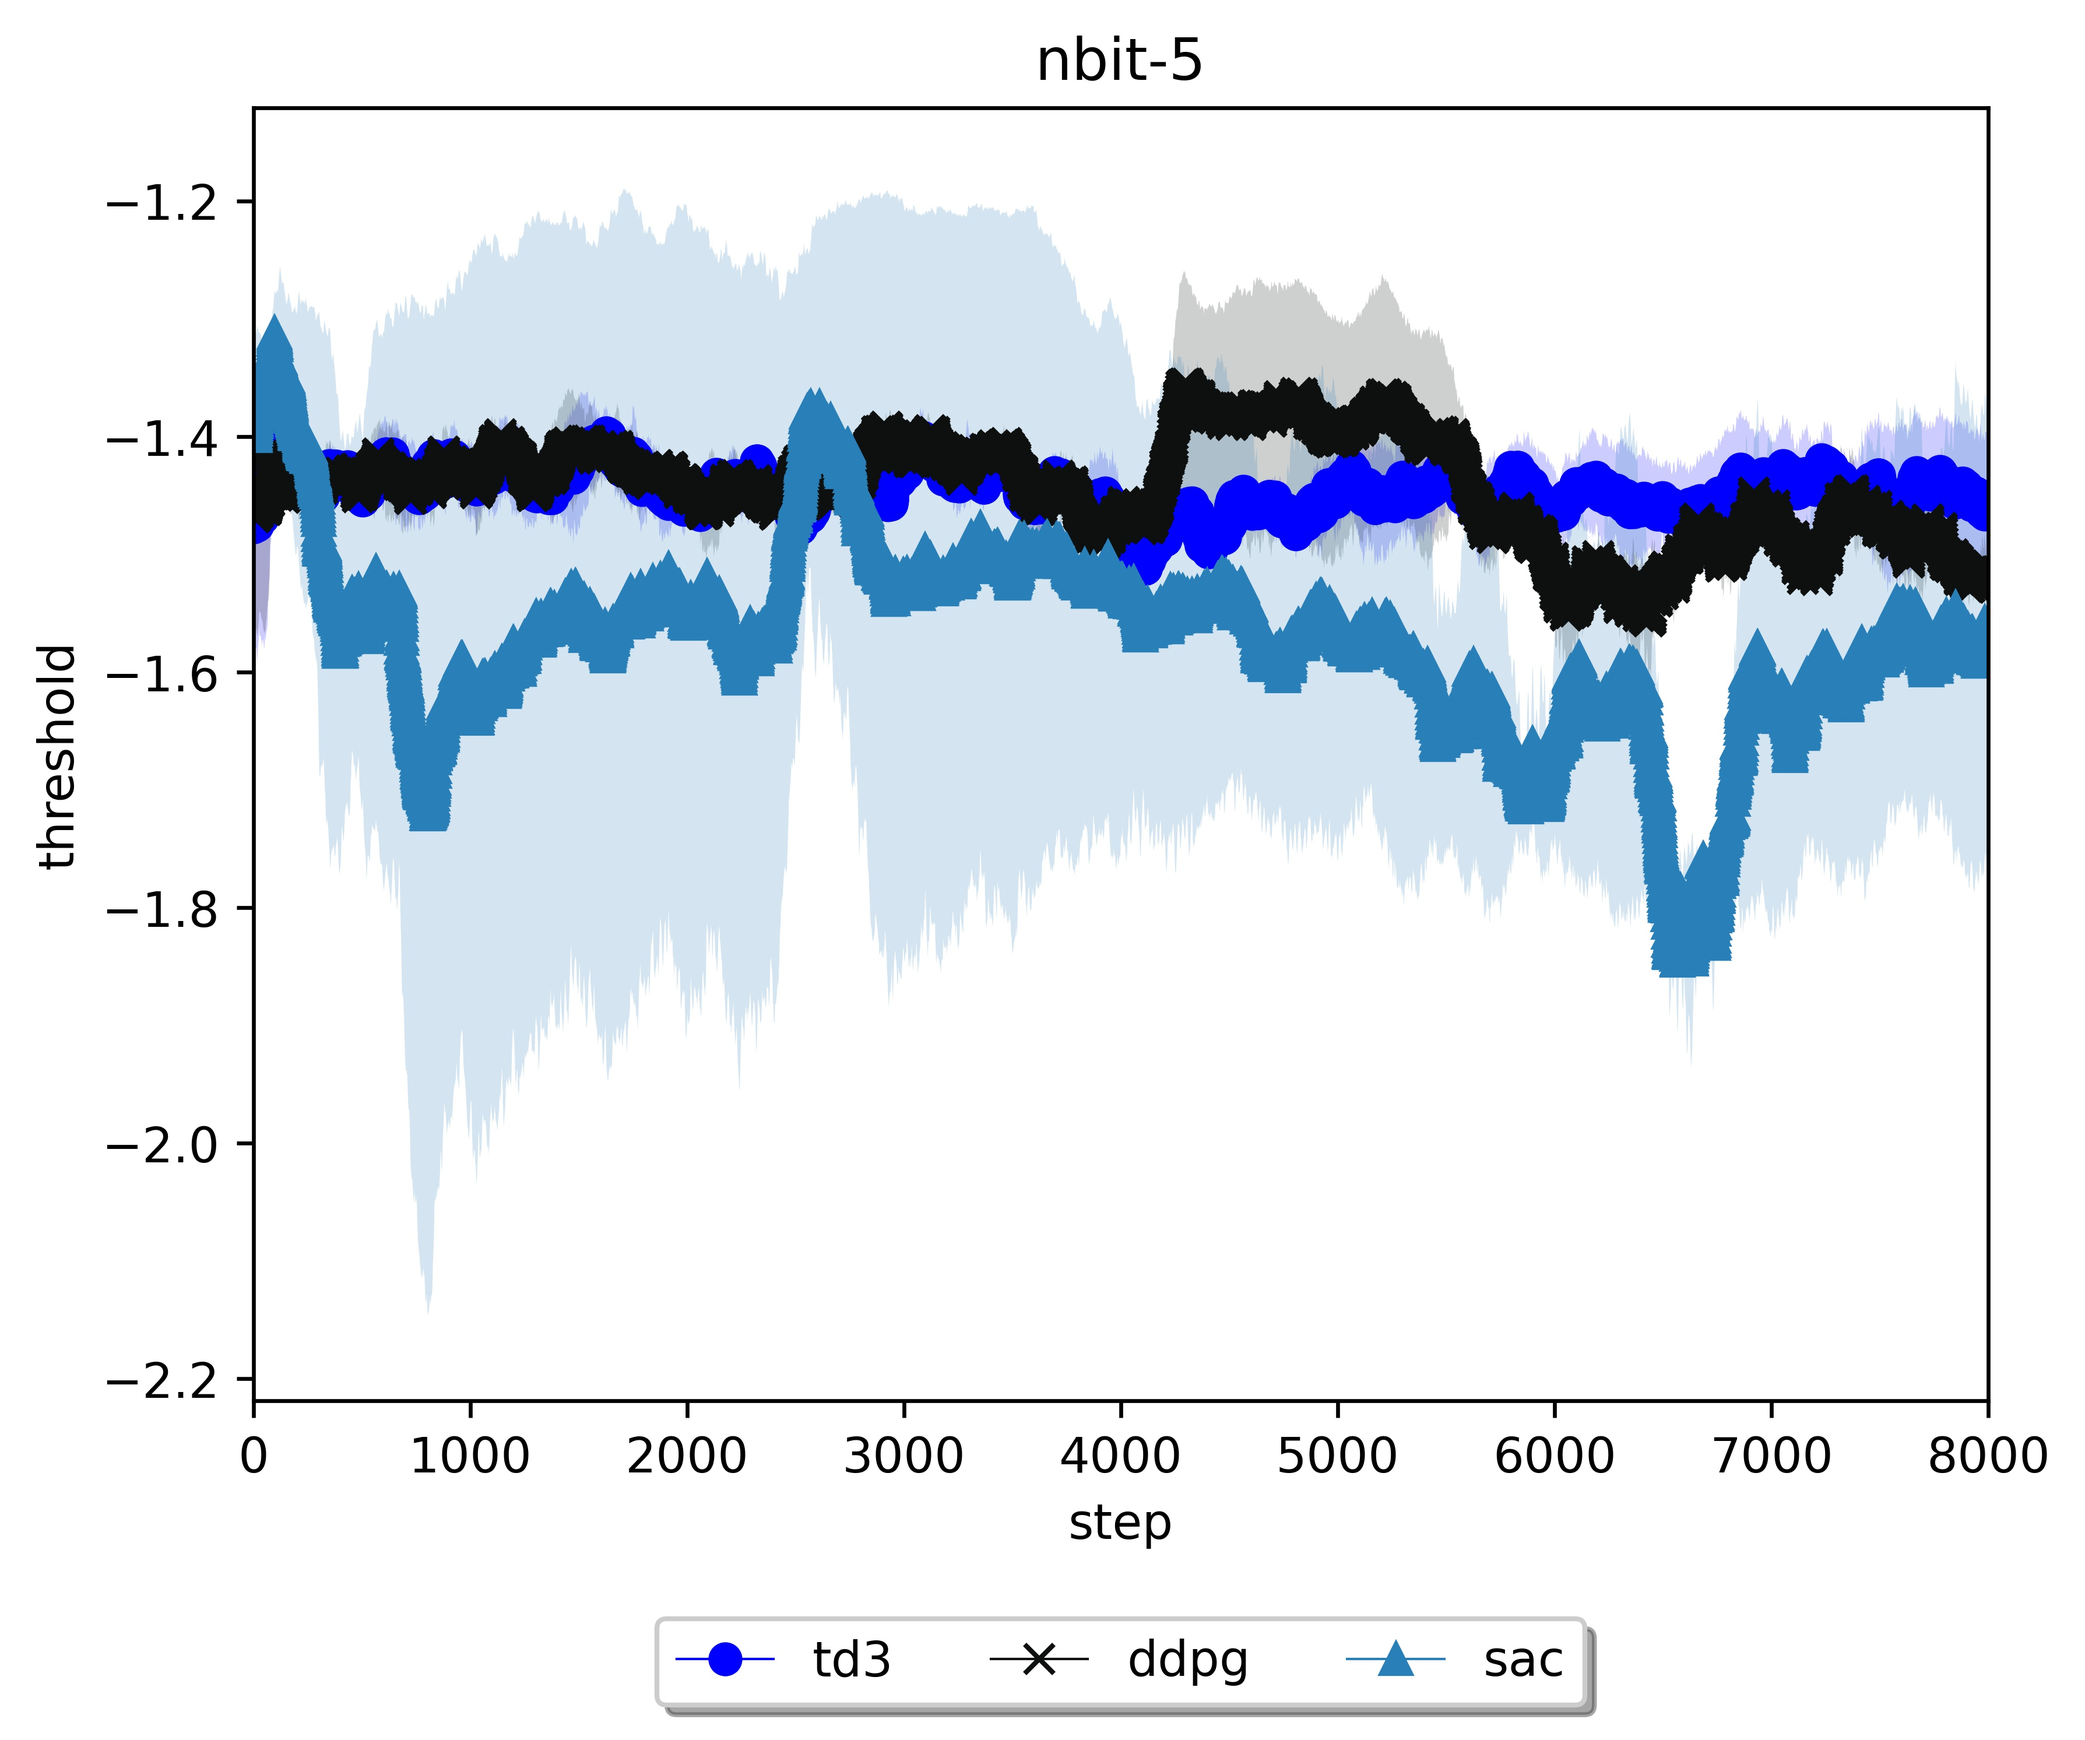
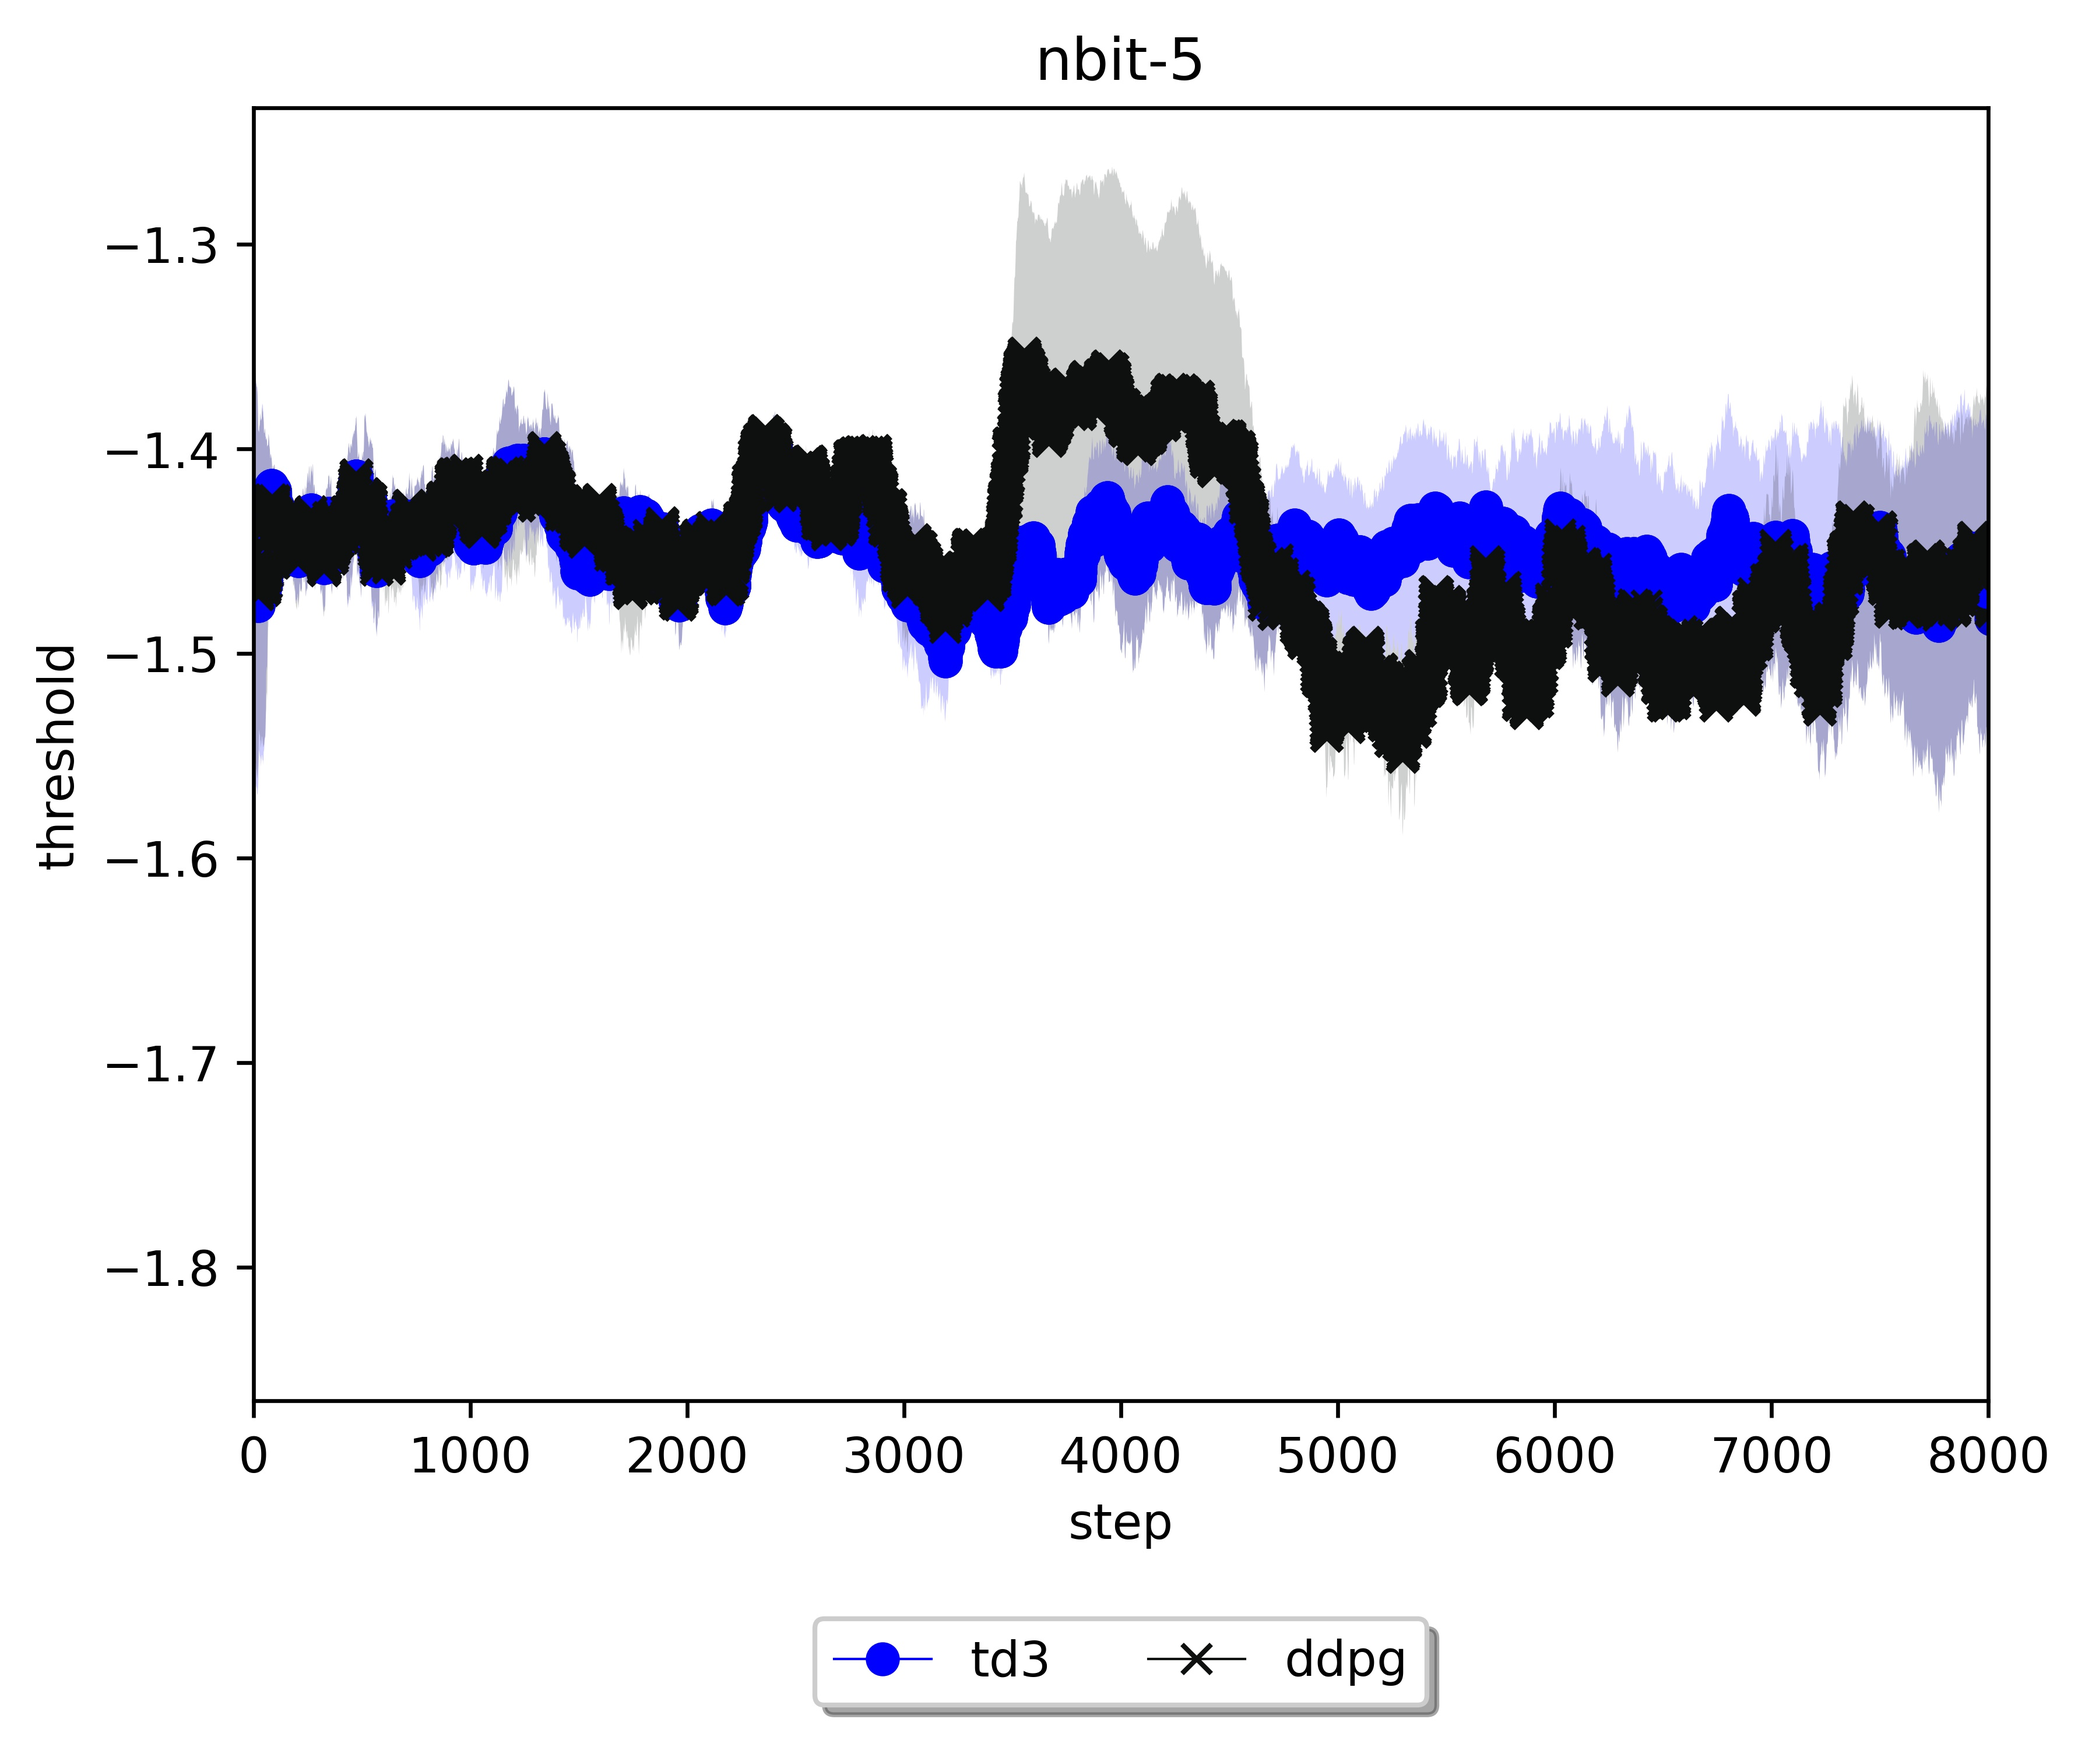
ready to big work

diff --git a/nqubit/utils/nqbit_parameters.py b/nqubit/utils/nqbit_parameters.py
@@ -16,33 +16,33 @@ def get_args():
     parser.add_argument('--seed', type = int, default = 1)
 
     # Control Variable
-    parser.add_argument('--num_episodes', type = int, default = 1000)
-    parser.add_argument('--episode_length', type = int, default = 100) # 3
-    parser.add_argument('--random_steps', type = int, default = 200) # 900
-    parser.add_argument('--learn_start_steps', type = int, default = 300) # 900
-    parser.add_argument('--update_freq_steps', type=int, default= 200)
-    parser.add_argument('--target_update_freq', type=int, default = 500)
-    parser.add_argument('--measure_every_n_steps',type=int, default = 2)
+    parser.add_argument('--num_episodes', type = int, default = int(1e4))        # int(1e4)
+    parser.add_argument('--episode_length', type = int, default = 30)            # 30 for one-hot
+    parser.add_argument('--random_steps', type = int, default = 2000)            # 2000
+    parser.add_argument('--learn_start_steps', type = int, default = 2000)       # 2000
+    parser.add_argument('--update_freq_steps', type=int, default= 1)             # 1
+    parser.add_argument('--target_update_freq', type=int, default = 2)           # 2
+    parser.add_argument('--measure_every_n_steps',type=int, default = 1)         # 1
 
     # update related 
-    parser.add_argument('--batch_size', type = int, default = 64)
+    parser.add_argument('--batch_size', type = int, default = 128)                # 128
     parser.add_argument('--policy_lr', type = float, default = 3e-4)
     parser.add_argument('--value_lr', type = float, default = 3e-4)
     parser.add_argument('--alpha_lr', type=float, default = 5e-5)
     parser.add_argument('--gamma', type = float, default = 0.99)
-    parser.add_argument('--alpha', type = float, default = 0.2) # auto-tune 
+    parser.add_argument('--alpha', type = float, default = 0.02)                  # 0.02 or autotune 
     parser.add_argument('--polyak', type = float, default = 0.995)
     parser.add_argument('--update_freq_per_step', type = int, default = 2)
     parser.add_argument('--policy_decay', type = int, default = 2)
 
     # buffer_size
-    parser.add_argument('--buffer_size', type = int, default = int(1e5))
+    parser.add_argument('--buffer_size', type = int, default = int(1e6)) 
 
     # Network Related
-    parser.add_argument('--actor_hidden_size', type = int, default = 256)  # 64 
+    parser.add_argument('--actor_hidden_size', type = int, default = 256)  
     parser.add_argument('--critic_hidden_size', type = int, default = 256)
-    parser.add_argument('--actor_log_std_min', type = int, default = -9)
-    parser.add_argument('--actor_log_std_max', type = int, default = 0)
+    parser.add_argument('--actor_log_std_min', type = int, default = -10)
+    parser.add_argument('--actor_log_std_max', type = int, default = 1)
     
 
     # Log
@@ -52,8 +52,8 @@ def get_args():
     parser.add_argument('--n_initial_points', type=int, default=3)
 
     # Tricks
-    parser.add_argument('--auto_tune_alpha', type = bool , default = True)
-    parser.add_argument('--reward_scale', type = float, default= 10.0)
+    parser.add_argument('--auto_tune_alpha', type = bool , default = False)
+    parser.add_argument('--reward_scale', type = float, default= 1.0)
 
 
     args = parser.parse_args()

diff --git a/nqubit/plot/plot.py b/nqubit/plot/plot.py
@@ -15,6 +15,7 @@ smooth = True
 smooth_index = 150 # [1, +max), could be changed into 1
 threshold_len = 0 # == 10000? if (threshold_len>10000): threshold <- 10000
 linewidth = 0.5 # linewidth of the figure line
+scatter_space = 100 #
 color_dictionary = {
     0: "#0000FF", 1: "#0E0F0F", 2: "#2980B9", 3: "#7FB3D5", 4: "#22DAF3",
     5: "#5B2C6F", 6: "#800000", 7: "#008000", 8: "#008000", 9: "#E74C3C",
@@ -30,13 +31,24 @@ linestyle_dictionary = {
 
 def mean_std_fillcolor_plot(thresholds, color, label, marker):
     thresholds_mean = thresholds.mean(axis = 0)
+
     x = [i for i in range(len(thresholds_mean))]
     thresholds_std = thresholds.std(axis = 0)
     superbound = thresholds_mean + thresholds_std
     lowerbound = thresholds_mean - thresholds_std
 
-    plt.plot(x, thresholds_mean, color=color, label=label, linewidth=linewidth, marker=marker, ) 
-    plt.scatter(x, thresholds_mean, color=color, marker=markers[i])
+    x_scatter = np.zeros(0)
+    print("x_scatter: ", x_scatter)
+    scatter_index = 0
+    while(True):
+        x_scatter = np.concatenate((x_scatter, x[scatter_index]), axis = 0)
+        scatter_index += scatter_space
+        if (scatter_index >= x.length()):
+            break
+    print("x_scatter: ", x_scatter)
+
+    plt.plot(x, thresholds_mean, color=color, label=label, linewidth=linewidth, marker=marker) 
+    plt.scatter(x, thresholds_mean, color=color, marker=marker)
     plt.fill_between(x, superbound, lowerbound, where=superbound>=lowerbound, facecolor=color, interpolate=True, alpha=0.2)
     return
 
@@ -72,7 +84,7 @@ def plot_func(dirs, color, label, marker):
 
 #-------------------------------------------------------------------------------------
 # dir func:
-original_path = "../results/nbit-5/*"
+original_path = "../plot/nbit-5/*"
 method_paths = glob.glob(original_path) # paths type:string list
 methodname_list = list()
 for i in range(len(method_paths)):

diff --git a/nqubit/energy_env/NqubitEnv.py b/nqubit/energy_env/NqubitEnv.py
@@ -215,7 +215,7 @@ class NqubitEnv(gym.Env):
             neg_energy, threshold = measure.CalcuFidelity(self.nbits, b, self.Hb, self.Hp_array, self.T, self.g)
 
             #reward = self.design_reward(energy, threshold)
-            reward = threshold
+            reward = neg_energy
             #extra_reward = self.soft_constraint(b)
             #reward = self.design_reward(threshold)
 
@@ -347,8 +347,6 @@ class NqubitEnvContinuous(gym.Env):
         return extra_reward
 
         
-
-        
     def reset(self):
 
         self.counter = 0
@@ -397,9 +395,9 @@ class NqubitEnvOneHot(gym.Env):
         self.counter = 0
 
         self.state = None  # s
-        self.Pi = np.pi
+        #self.Pi = np.pi
 
-        self.action_buffer = []
+        #self.action_buffer = []
 
 
     def step(self, action):
@@ -417,14 +415,14 @@ class NqubitEnvOneHot(gym.Env):
 
         reward, threshold = measure.CalcuFidelity(self.nbits, measure_state, self.Hb, self.Hp_array, self.T, self.g)
 
-        if self.counter == (self.evolution_step-1) :
+        if self.counter == (self.evolution_step - 1) :
 
             self.done = True
 
             #measure_state = np.sum(self.action_buffer, axis = 0)
-            measure_state  = b
+            #measure_state  = b
 
-            reward, threshold = measure.CalcuFidelity(self.nbits, measure_state, self.Hb, self.Hp_array, self.T, self.g)
+            #reward, threshold = measure.CalcuFidelity(self.nbits, measure_state, self.Hb, self.Hp_array, self.T, self.g)
 
             return self.state, reward, self.done, {'threshold':threshold, 'solution':measure_state}
 

diff --git a/nqubit/Train_SAC.py b/nqubit/Train_SAC.py
@@ -22,7 +22,7 @@ if __name__ == '__main__':
 
     # log dir & summary writer
     current_dir = './results'
-    train_log_dir = '/nbit-' + str(args.nbit) + '/sac'
+    train_log_dir = '/test_version' + str(args.nbit) + '/sac'
     exp_name = '/seed{0}'.format(args.seed)
     log_dir = current_dir + train_log_dir + exp_name 
 
@@ -87,14 +87,14 @@ if __name__ == '__main__':
 
             # when to update & how often we update
             if (totalstep > args.learn_start_steps) and (totalstep % args.update_freq_steps):
-                    value_loss, policy_loss, log_prob_mag, q_value_mag, alpha = agent.update(args.update_freq_per_step, totalstep)
-                    #value_loss, policy_loss, log_prob_mag, q_value_mag = agent.update(args.update_freq_per_step, totalstep)
+                    #value_loss, policy_loss, log_prob_mag, q_value_mag, alpha = agent.update(args.update_freq_per_step, totalstep)
+                    value_loss, policy_loss, log_prob_mag, q_value_mag = agent.update(args.update_freq_per_step, totalstep)
                     
                     writer.add_scalar('value_loss', value_loss, totalstep)
                     writer.add_scalar('policy_loss', policy_loss, totalstep)
                     writer.add_scalar('log_prob', log_prob_mag, totalstep)
                     writer.add_scalar('q_value_prob', q_value_mag, totalstep)
-                    writer.add_scalar('alpha', alpha, totalstep)
+                    # logwriter.add_scalar('alpha', alpha, totalstep)
             
             
             # log_state & action

diff --git a/nqubit/agents/SACAgent.py b/nqubit/agents/SACAgent.py
@@ -146,7 +146,7 @@ class SACAgent(object):
         policy_log = []
         log_prob_log = []
         q_value_log = []
-        alpha_log = []
+        #alpha_log = []
         
 
         for i in range(update_times):
@@ -194,7 +194,7 @@ class SACAgent(object):
 
                     self.alpha = self.log_alpha.exp()
                     alpha_to_log = self.alpha.clone()
-                    alpha_log.append(alpha_to_log.detach().cpu().numpy())
+                    #alpha_log.append(alpha_to_log.detach().cpu().numpy())
 
                 # soft update
                 if totalstep % self.target_update_freq == 0:
@@ -203,7 +203,7 @@ class SACAgent(object):
                             target_parma.data.mul_(self.polyak)
                             target_parma.data.add_((1-self.polyak) * param.data)
         
-        return np.mean(value_log), np.mean(policy_log),np.mean(log_prob_log), np.mean(q_value_log),np.mean(alpha_log)
+        return np.mean(value_log), np.mean(policy_log),np.mean(log_prob_log), np.mean(q_value_log)#,np.mean(alpha_log)
 
 
         

diff --git a/nqubit/networks/sac_model.py b/nqubit/networks/sac_model.py
@@ -11,7 +11,7 @@ from torch.distributions.normal import Normal
 # Initialize Linear Layer weights & bias
 def weights_init_(m):
     if isinstance(m, nn.Linear):
-        torch.nn.init.xavier_uniform_(m.weight, gain=1)
+        torch.nn.init.xavier_uniform_(m.weight, gain=1.414)
         torch.nn.init.constant_(m.bias, 0)
 
 class TanhGaussianActor(nn.Module):
